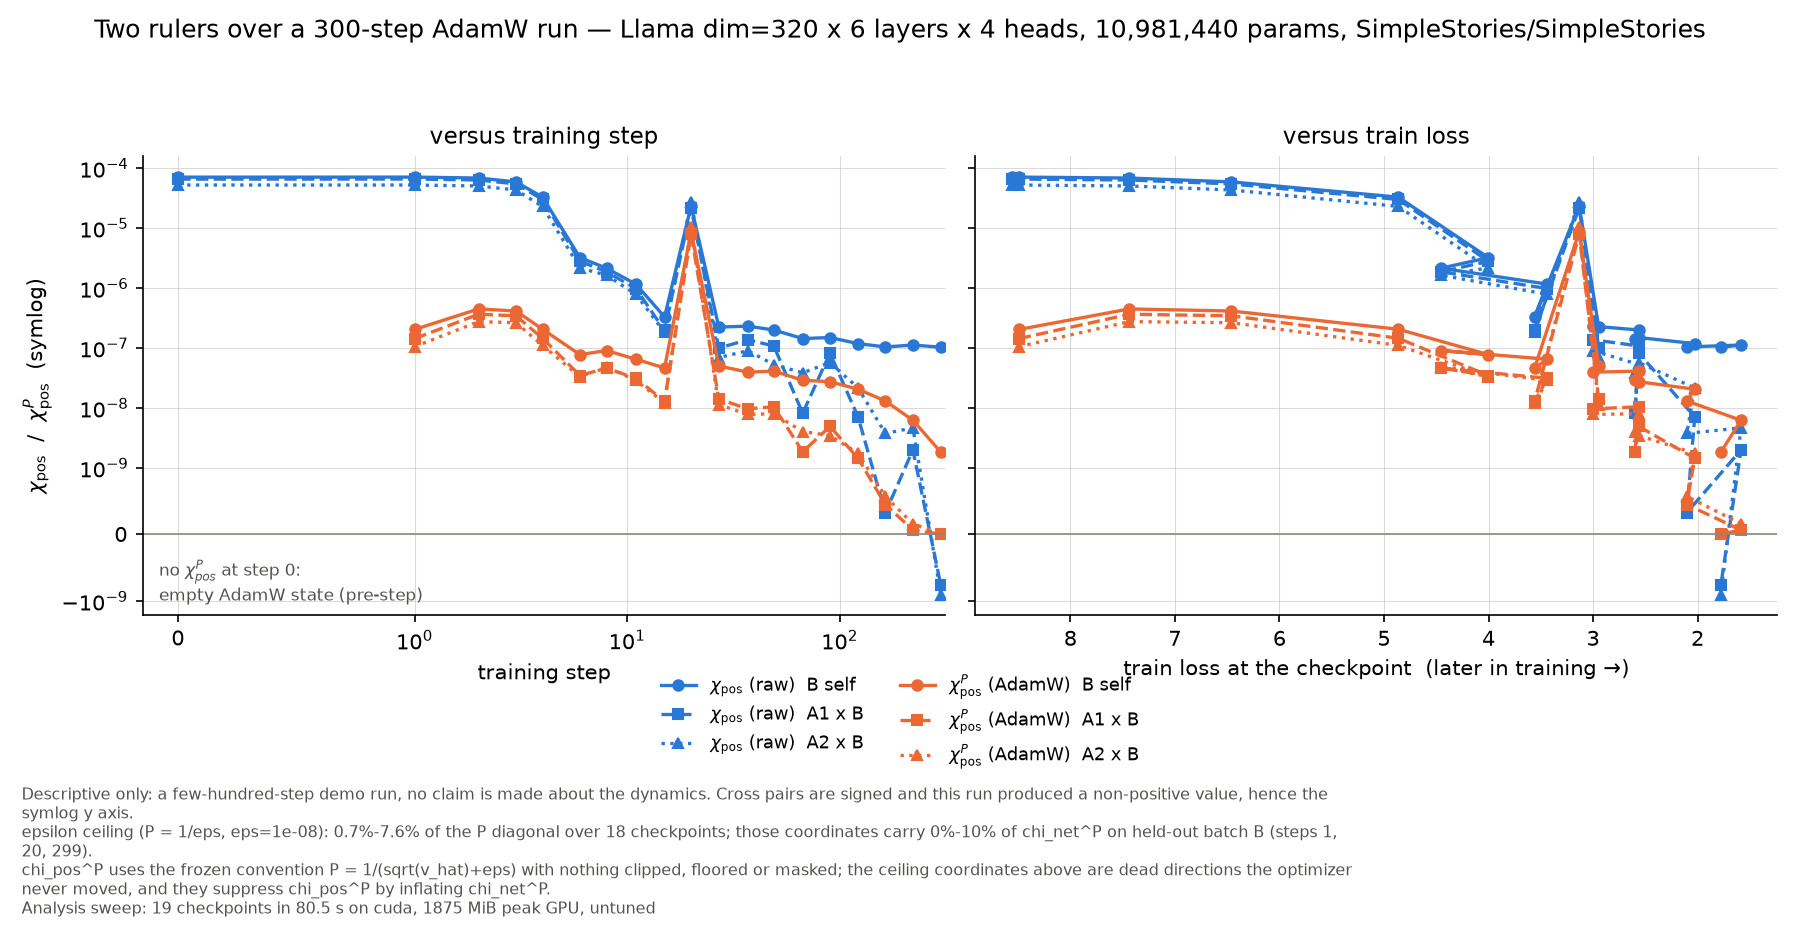
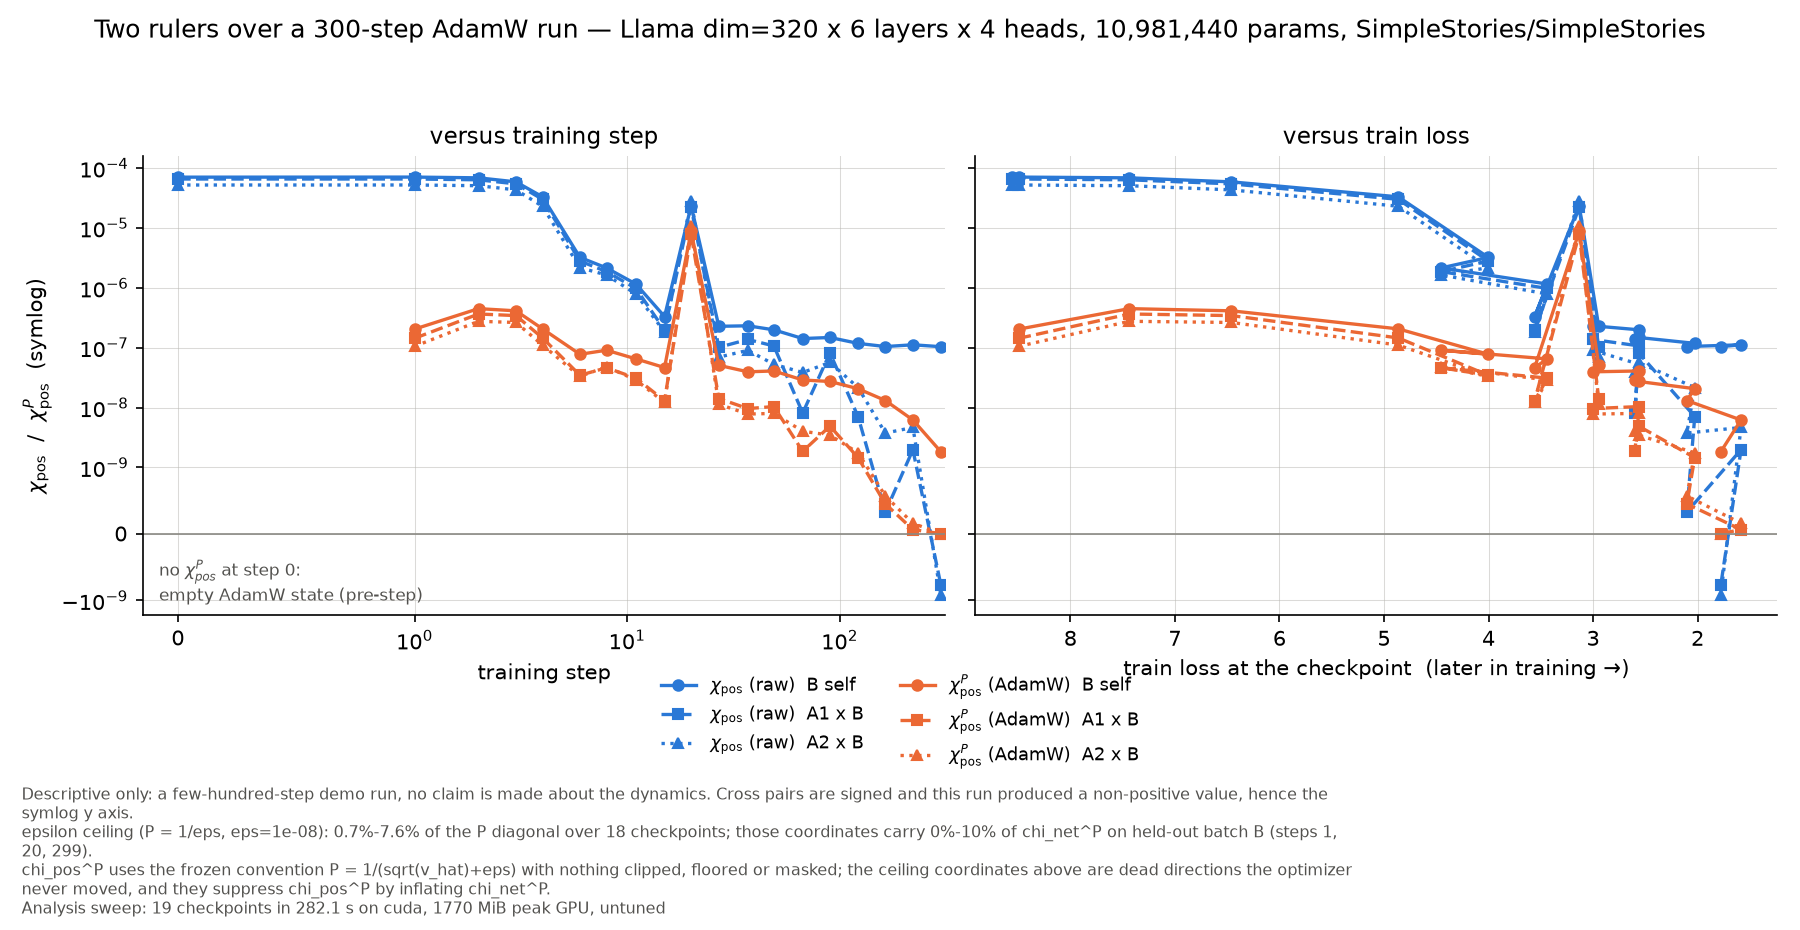
fix(probes): draw Hutchinson probes on CPU so a seed is device-independent
`torch.Generator("cpu")` and `torch.Generator("cuda")` produce DIFFERENT
sequences from the same seed. Probes were drawn on the model's device, so one
`hutchinson_seed` meant different probes on different hardware: a CPU reference
run and a GPU production run of the same analyze() call agreed on chi_net only
to within the Hutchinson noise floor -- measured 4.4e-02 relative at n_h = 400 on
a toy (growing as 1/sqrt(n_h), so ~15% at the default n_h = 32) -- while every
probe-independent observable agreed to 4.9e-08. The parquet could not tell the
two apart. Note this is *not* the "189/840 rows, worst 5.6e-07" figure in
status/REPORT.md: that was a GPU-vs-GPU re-run, where the probes do match.

make_probe now draws on the CPU and copies to the target device, and REFUSES a
non-CPU generator rather than ignoring it -- accepting one would quietly
reintroduce the device dependence. The draw is otherwise untouched (same int64
randint, same arithmetic), so CPU probe values are bit-identical to before; only
device runs move, and they move onto the CPU values. Verified both directions:
with the probes pinned, CPU vs CUDA agreement was already 4.9e-08 (reduction
order alone), which is what identified the RNG as the sole cause.

Cost: one host-to-device copy per probe (fp32, M*S*V elements). Measured on the
WP0 example (11M-param Llama, B=8, S=512, V=4096, n_h=32, per_sequence_cv): mean
analysis wallclock per checkpoint 4.16 s -> 4.35 s, i.e. ~5%. A uint8 transfer
[…]

diff --git a/vatis/core/probes.py b/vatis/core/probes.py
@@ -3,6 +3,21 @@
 Probes are always drawn in fp32 (so the variance is well-controlled), then
 optionally cast to the forward dtype before being multiplied into the model
 output for the trace projection.
+
+**Probes are always drawn on the CPU and copied to the target device.** A
+``torch.Generator`` on CPU and one on CUDA produce *different* sequences from the
+same seed (different algorithms), so drawing on the device would make
+``hutchinson_seed`` mean different probes on different hardware: a CPU reference
+run and a GPU production run of the same configuration could then only agree to
+within the Hutchinson noise floor (measured ~4e-2 relative at ``n_h = 400`` on a
+toy, growing as ``1/sqrt(n_h)``), which is far above the ~5e-08 reduction-order
+difference everything else shows. Drawing on the CPU makes a seed mean one probe
+set everywhere.
+
+The cost is one host-to-device copy of the probe per draw. The draw itself is
+unchanged (same ``int64`` ``randint``, same arithmetic), so **CPU runs are
+bit-identical to before**; only device runs move, and they move onto the CPU
+values.
 """
 
 from __future__ import annotations
@@ -29,33 +44,45 @@ def make_probe(
             current micro-batch (e.g. ``(M, S, V)`` for an HF causal LM).
         distribution: ``"rademacher"`` (default, lower variance) or
             ``"gaussian"``.
-        device: target device; defaults to CPU.
+        device: device the probe is **returned** on; defaults to CPU. The draw
+            itself always happens on the CPU (see the module docstring).
         dtype: target dtype; defaults to fp32. Most callers cast this to the
             forward dtype only at the multiplication site.
-        generator: optional torch.Generator for reproducibility. If provided,
-            the device of the generator must match ``device``.
+        generator: optional ``torch.Generator`` for reproducibility. It must be
+            a **CPU** generator, because that is where the draw happens; a CUDA
+            generator is refused rather than silently ignored, since accepting
+            it would reintroduce device-dependent probes.
 
     Returns:
-        A tensor of shape ``shape`` whose entries have unit variance.
+        A tensor of shape ``shape`` on ``device`` whose entries have unit
+        variance. The values do not depend on ``device``.
 
     Notes:
         Padding masking is NOT applied here. Call :func:`mask_probe` afterwards
         if you need padded positions zeroed.
     """
-    device = torch.device(device) if device is not None else torch.device("cpu")
+    target = torch.device(device) if device is not None else torch.device("cpu")
+    if generator is not None and generator.device.type != "cpu":
+        raise ValueError(
+            f"make_probe needs a CPU generator, got one on {generator.device}. Probes are "
+            "drawn on the CPU and copied to the target device so that a seed identifies the "
+            "same probe set on every device; a CUDA generator would silently reintroduce "
+            "device-dependent probes. Build it with torch.Generator() and select the "
+            "destination with device=..."
+        )
     if distribution == "rademacher":
-        # ``torch.randint`` does not honor a CPU generator on a CUDA device, so
-        # we always draw on the requested device. Use uint8 then map to ±1.
-        # We pick {0, 1} via randint and shift to {-1, +1} to keep numerical
-        # accuracy at fp32.
-        raw = torch.randint(0, 2, shape, device=device, dtype=torch.int64, generator=generator)
+        # {0, 1} via randint, shifted to {-1, +1}: exact in fp32 and cheaper than
+        # a sign() of a uniform. Drawn on CPU with the same dtype and arithmetic
+        # as before, so CPU probe values are unchanged by the move.
+        raw = torch.randint(0, 2, shape, device="cpu", dtype=torch.int64, generator=generator)
         probe = raw.to(dtype=dtype) * 2.0 - 1.0
-        return probe
-    if distribution == "gaussian":
-        return torch.randn(shape, device=device, dtype=dtype, generator=generator)
-    raise ValueError(
-        f"unknown probe distribution: {distribution!r}. expected 'rademacher' or 'gaussian'."
-    )
+    elif distribution == "gaussian":
+        probe = torch.randn(shape, device="cpu", dtype=dtype, generator=generator)
+    else:
+        raise ValueError(
+            f"unknown probe distribution: {distribution!r}. expected 'rademacher' or 'gaussian'."
+        )
+    return probe.to(device=target)
 
 
 def mask_probe(probe: torch.Tensor, valid_mask: torch.Tensor | None) -> torch.Tensor:

diff --git a/tests/unit/test_probes.py b/tests/unit/test_probes.py
@@ -1,5 +1,6 @@
 """Unit tests for vatis.core.probes."""
 
+import pytest
 import torch
 
 from vatis.core.probes import make_probe, mask_probe
@@ -68,3 +69,43 @@ def test_make_probe_reproducible_with_generator() -> None:
     g2.manual_seed(42)
     p2 = make_probe((2, 3, 4), generator=g2)
     assert torch.equal(p1, p2)
+
+
+def test_cuda_generator_is_refused_rather_than_silently_ignored() -> None:
+    """Accepting one would reintroduce device-dependent probes."""
+    import pytest
+
+    if not torch.cuda.is_available():
+        pytest.skip("no CUDA device available")
+    g = torch.Generator(device="cuda")
+    g.manual_seed(0)
+    with pytest.raises(ValueError, match="CPU generator"):
+        make_probe((2, 3), generator=g, device="cuda")
+
+
+@pytest.mark.gpu
+@pytest.mark.parametrize("distribution", ["rademacher", "gaussian"])
+def test_same_seed_gives_bit_identical_probes_on_cpu_and_cuda(distribution: str) -> None:
+    """A seed must identify one probe set, whatever device the probe lands on.
+
+    ``torch.Generator("cpu")`` and ``torch.Generator("cuda")`` produce different
+    sequences from the same seed, so before probes were drawn on the CPU a CPU
+    reference run and a GPU production run of the same ``analyze()`` call agreed
+    on ``chi_net`` only to within the Hutchinson noise floor (~4e-2 relative at
+    ``n_h = 400``), while every deterministic observable agreed to ~5e-08.
+    """
+    g_cpu = torch.Generator()
+    g_cpu.manual_seed(20260729)
+    on_cpu = make_probe((3, 5, 7), distribution=distribution, generator=g_cpu)
+    g_gpu = torch.Generator()
+    g_gpu.manual_seed(20260729)
+    on_gpu = make_probe((3, 5, 7), distribution=distribution, generator=g_gpu, device="cuda")
+    assert on_gpu.device.type == "cuda"
+    assert torch.equal(on_cpu, on_gpu.cpu())
+
+
+@pytest.mark.gpu
+def test_probe_lands_on_the_requested_device() -> None:
+    probe = make_probe((2, 2), device="cuda")
+    assert probe.device.type == "cuda"
+    assert probe.dtype == torch.float32

diff --git a/tests/integration/test_ddp_loopback.py b/tests/integration/test_ddp_loopback.py
@@ -3,10 +3,19 @@
 We compare against a single-process baseline and assert that:
     - chi_loss is identical (closed form is invariant under sharding)
     - delta_loss is identical (re-weighted all-reduce gives the right grad)
-    - chi_net is close (Hutchinson is identical because the same probe seed
-      is shared across ranks; ranks just partition which probe entries they
-      backprop)
+    - chi_net is close, but only in a *sampling* sense — see below
     - chi_pos matches within Hutchinson noise
+
+**Correction to an earlier version of this docstring.** It claimed "Hutchinson is
+identical because the same probe seed is shared across ranks; ranks just
+partition which probe entries they backprop". That is not what happens. Each rank
+seeds its generator identically and then draws a *full* probe for **its own
+shard**, so the same random numbers are applied to *different samples*. The DDP
+total is therefore a different (still unbiased) estimate of the same trace, not
+the single-process one, and the measured gap is a few percent — which is why the
+`chi_net` bound here is loose. The shared seed also *correlates* the shards'
+estimates, so it slightly increases the variance of the total relative to
+independent probes; it buys reproducibility, not agreement.
 """
 
 from __future__ import annotations

diff --git a/vatis/analyzer.py b/vatis/analyzer.py
@@ -601,8 +601,14 @@ class Analyzer:
             distribution=self.hutchinson_distribution,
         )
         # Probe seed must be SHARED across ranks for the same (ckpt, batch).
+        # The generator is deliberately on the CPU even for a CUDA run: probes are
+        # drawn on the CPU and copied to the device
+        # (``vatis.core.probes.make_probe``), so the ``hutchinson_seed`` recorded
+        # in the sink identifies the same probe set on every device. A CUDA
+        # generator would make one seed mean different probes on CPU vs GPU, and
+        # the two runs could then only agree to within the Hutchinson noise floor.
         probe_seed = _per_call_seed(self.seed, ckpt_id, batch_name)
-        gen = torch.Generator(device=device)
+        gen = torch.Generator()
         gen.manual_seed(probe_seed)
         chi_net_result: ChiNetResult = estimator.compute(
             bundle.model,

diff --git a/examples/olmo_sft_analysis/mem_profile.py b/examples/olmo_sft_analysis/mem_profile.py
@@ -96,12 +96,13 @@ def run_delta_loss(bundle, batch, micro_bs: int) -> tuple[float, str, float]:
 
 
 def run_chi_net(bundle, batch, micro_bs: int, method: str, n_h: int) -> float:
-    device = next(bundle.model.parameters()).device
     if method == "hutchinson":
         est = HutchinsonEstimator(n_hutchinson=n_h)
     else:
         est = PerSequenceControlVariateEstimator(n_hutchinson=n_h)
-    gen = torch.Generator(device=device).manual_seed(0)
+    # CPU generator: probes are drawn on the CPU and copied to the device so a
+    # seed means the same probe set everywhere (vatis.core.probes.make_probe).
+    gen = torch.Generator().manual_seed(0)
     reset_peak()
     est.compute(
         bundle.model,

diff --git a/CLAUDE.md b/CLAUDE.md
@@ -383,14 +383,15 @@ There is deliberately no `chi_net_P_normalized` row: it is `chi_net_P / sqrt(n_v
 - User passes `num_gpus=N`. CLI launches `torchrun --nproc_per_node=N -m vatis._worker …`.
 - Each rank loads the same model checkpoint (v1 assumes the model fits on one GPU).
 - Each eval batch is sharded across ranks along the batch dim. If `B % N != 0`, the last rank gets a smaller shard and contributes fewer valid tokens — the all-reduce handles this naturally because we accumulate token-weighted sums, not means.
-- Per micro-batch on each rank: forward, compute logits → `χ_loss` accumulator. For `χ_net` Hutchinson: draw `n` probe vectors **with the same seed across ranks** so each rank computes a partial estimate of the same trace; all-reduce sums them. For `δL`: each rank computes its partial gradient `g_A^rank`, all-reduce-sum to get the full `g_A`, dot with `g_B` (same procedure).
+- Per micro-batch on each rank: forward, compute logits → `χ_loss` accumulator. For `χ_net` Hutchinson: each rank draws `n` probe vectors **for its own shard** from a generator seeded identically across ranks (reproducibility — *not* a partition of one global probe, see `## Probe vector details`) and estimates the trace over its shard; all-reduce sums them, which is correct because `Tr(Θ)` is a sum over rows and the shards partition the rows. For `δL`: each rank computes its partial gradient `g_A^rank`, all-reduce-sum to get the full `g_A`, dot with `g_B` (same procedure).
 - All-reduce happens **once per checkpoint × eval-batch** combination, not per micro-batch. Accumulators live on each rank as plain tensors.
 - `micro_batch_size=1` is the always-safe fallback. The launcher does **not** attempt OOM auto-tuning in v1 — it's the user's responsibility to pick a size that fits.
 
 ### Probe vector details
 
 - Default `n_hutchinson=32`, Rademacher distribution. Variance scales as `1/n`. For `HutchinsonEstimator` the effective variance is `~B×` higher per draw, so the auto-selection uses `per_sequence_cv` for small `B`.
-- Probe seed is **shared across ranks** within one `(checkpoint, batch)` call so all ranks compute partial estimates of the same probe; different seed across calls.
+- **Probes are drawn on the CPU and copied to the target device**, so a seed identifies one probe set on every device. This matters: `torch.Generator("cpu")` and `torch.Generator("cuda")` yield *different* sequences from the same seed, and while probes were drawn on-device a CPU reference run and a GPU production run of the same `analyze()` call agreed on `chi_net` only to within the Hutchinson noise floor (~4e-2 relative at `n_h = 400`, growing as `1/√n_h`) even though every deterministic observable agreed to ~5e-08 — and the `hutchinson_seed` column could not tell the two apart. `make_probe` therefore **refuses a CUDA generator** rather than ignoring it. The draw is otherwise unchanged, so CPU probe values are the same as before; the cost is one host-to-device copy per probe (fp32, `M·S·V` elements).
+- Probe seed is **shared across ranks** within one `(checkpoint, batch)` call, and different across calls. Note what this does and does not buy: each rank draws a *full* probe for **its own shard**, so ranks do not partition one global probe — the same random numbers land on different samples. It makes a run reproducible; it does not make the DDP total equal the single-process total (the two are different unbiased estimates, differing by a few percent), and sharing the seed mildly *correlates* the shards' estimates. `tests/integration/test_ddp_loopback.py` therefore pins DDP against single-process with the probe sequence pinned to a shape-keyed constant, which makes the comparison exact.
 - The probe vector shape matches the local micro-batch output: for HF causal LMs, `(M, S, V)`. **Padding positions are zeroed** in the probe vector so masked tokens contribute to neither `χ_net` nor `χ_loss`. The mask used is the *intersection* the analyzer builds (`valid_mask_fn` ∧ `labels != ignore_index`), not `valid_mask_fn` alone — see `## Loss handling`.
 - No exact-vocab fallback in v1. If users want a deterministic check on a tiny test model, they crank `n_hutchinson` up.
 
